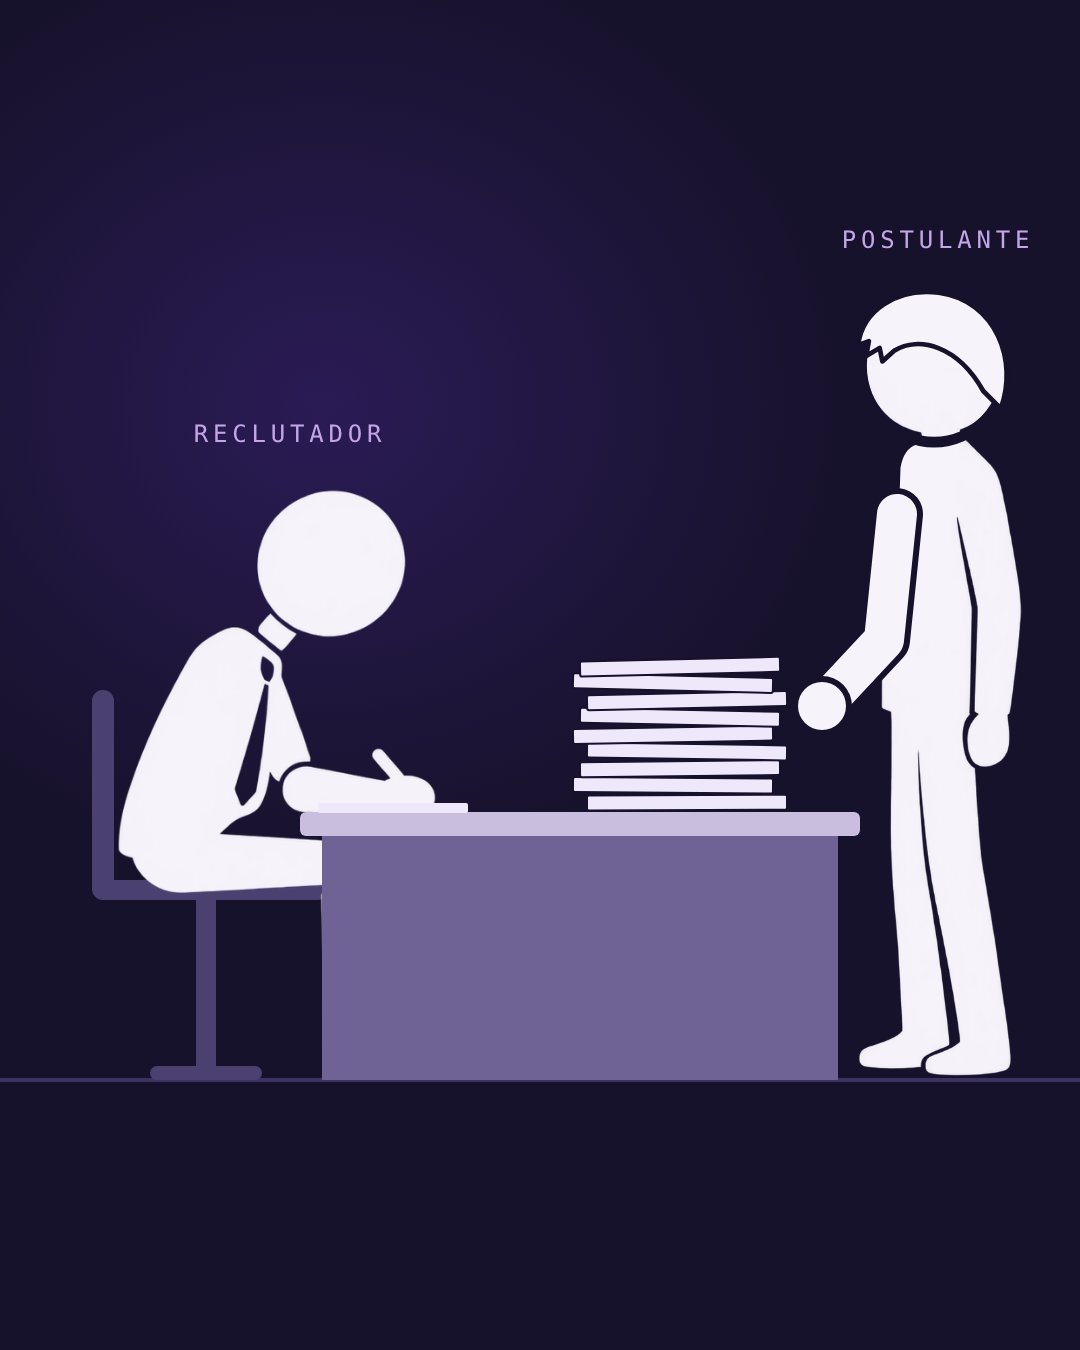
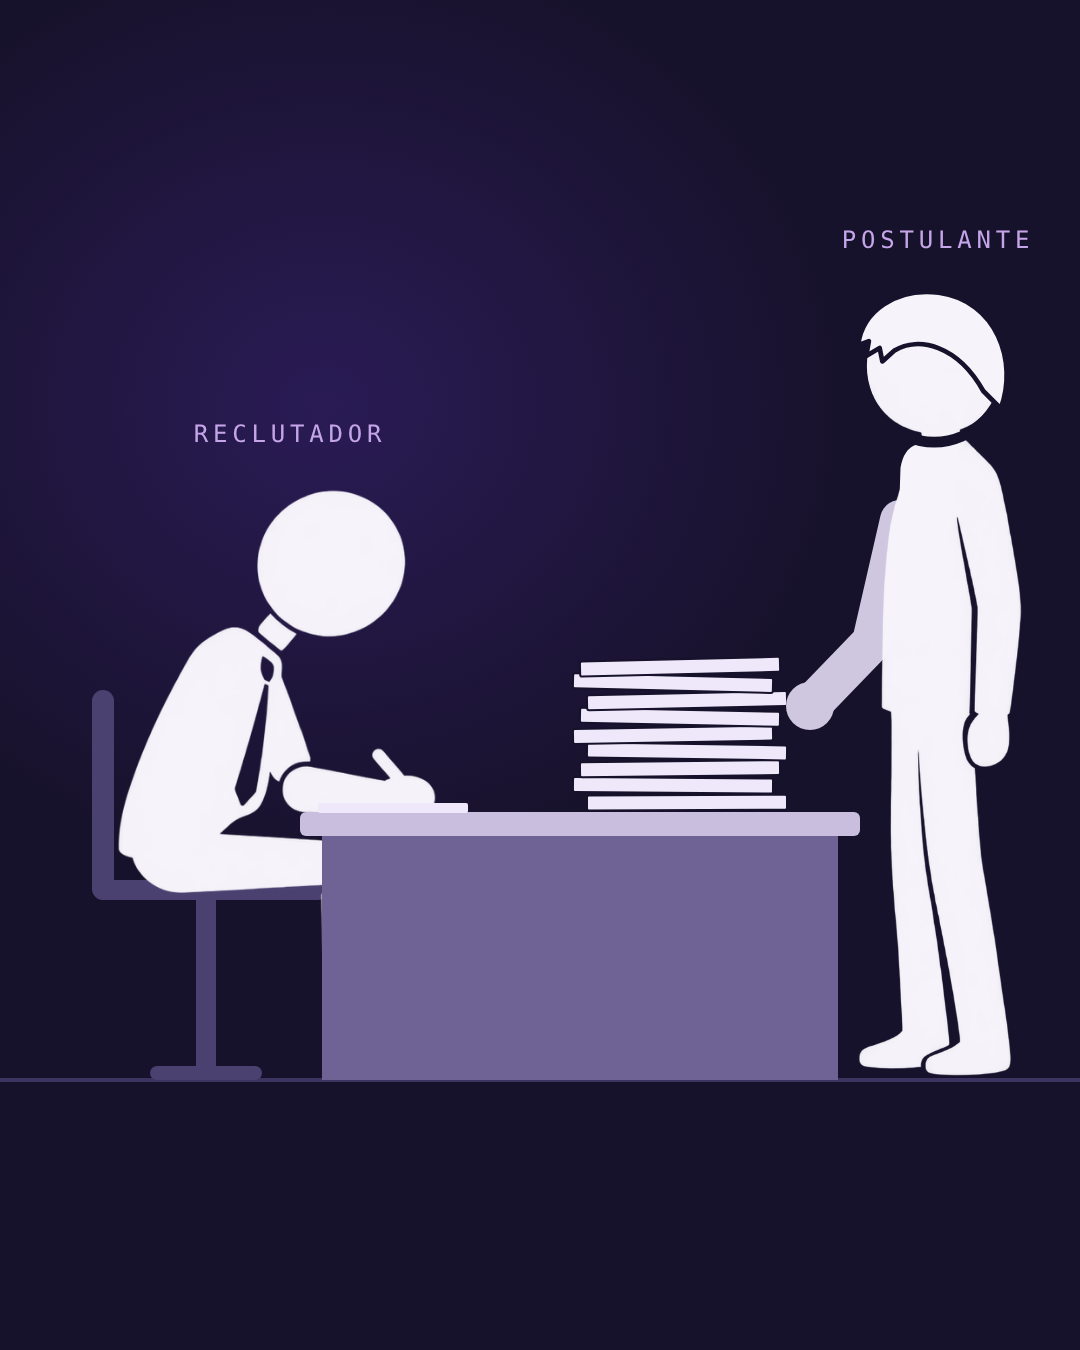
fix(video): put the applicant's far arm behind the body
The added arm is the far-side arm of a figure in profile, so it must be
occluded by the torso, not drawn over it. Paint it before the body so the
torso hides the shoulder and only the forearm and hand show, and use a
slightly darker tone to read as depth instead of an outline.

Claude-Session: https://claude.ai/code/session_01TNESLuQNUwZZ73yDMFRmWn

Changed region(s): [[0.7333, 0.3422, 0.8556, 0.56]]

diff --git a/videos/cv-ya-no-basta/elementos/escena1-still.html b/videos/cv-ya-no-basta/elementos/escena1-still.html
@@ -30,6 +30,14 @@
   <!-- la hoja en la que escribe -->
   <div class="abs" style="left:318px;top:803px;width:150px;height:10px;border-radius:2px;background:#efe8fa"></div>
   <!-- postulante: de pie, mirando hacia el escritorio -->
+  <!-- brazo LEJANO del postulante: va DETRÁS del cuerpo (se pinta antes).
+       El torso tapa hombro y brazo superior; solo asoman antebrazo y mano.
+       Un tono más oscuro que el cuerpo marca que está más lejos. -->
+  <svg class="abs" style="left:0;top:0" width="1080" height="1350">
+    <path d="M900 520 L872 642 L816 700" stroke="#cfc6e0" stroke-width="40" fill="none"
+      stroke-linecap="round" stroke-linejoin="round"/>
+    <circle cx="810" cy="706" r="24" fill="#cfc6e0"/>
+  </svg>
   <!-- coordenadas del recorte original (270x1180), mirando a la derecha; el flip lo da vuelta -->
   <svg class="abs" viewBox="0 0 270 1180" style="left:846px;top:286px;height:794px;transform:scaleX(-1);overflow:visible">
     <image href="personaje/postulante-de-pie-blanco.png" width="270" height="1180"/>
@@ -46,15 +54,6 @@
           fill="#f6f4fa" stroke="#17122b" stroke-width="7" stroke-linejoin="round"/>
   </svg>
 
-  <!-- brazo delantero del postulante: hombro -> codo -> mano, hacia el escritorio -->
-  <svg class="abs" style="left:0;top:0" width="1080" height="1350">
-    <path d="M897 514 L884 640 L828 700" stroke="#17122b" stroke-width="52" fill="none"
-      stroke-linecap="round" stroke-linejoin="round"/>
-    <path d="M897 514 L884 640 L828 700" stroke="#f6f4fa" stroke-width="40" fill="none"
-      stroke-linecap="round" stroke-linejoin="round"/>
-    <circle cx="822" cy="706" r="30" fill="#17122b"/>
-    <circle cx="822" cy="706" r="24" fill="#f6f4fa"/>
-  </svg>
   <div class="tag" style="left:290px;top:420px">RECLUTADOR</div>
   <div class="tag" style="left:938px;top:226px">POSTULANTE</div>
 </div>
